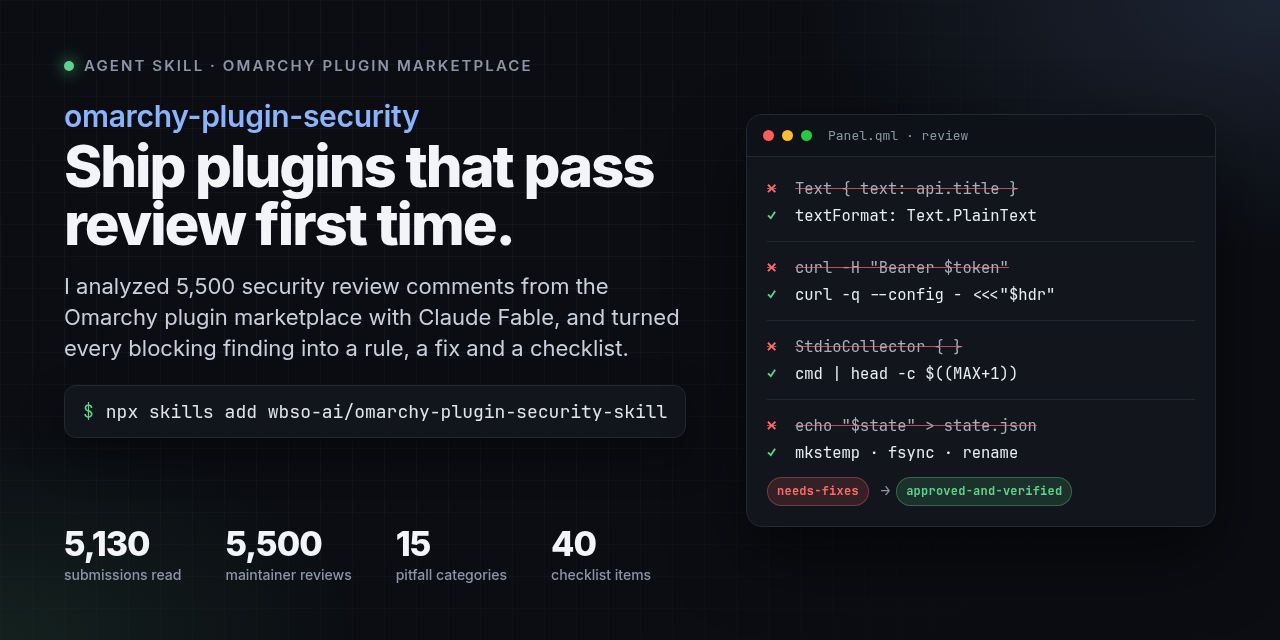
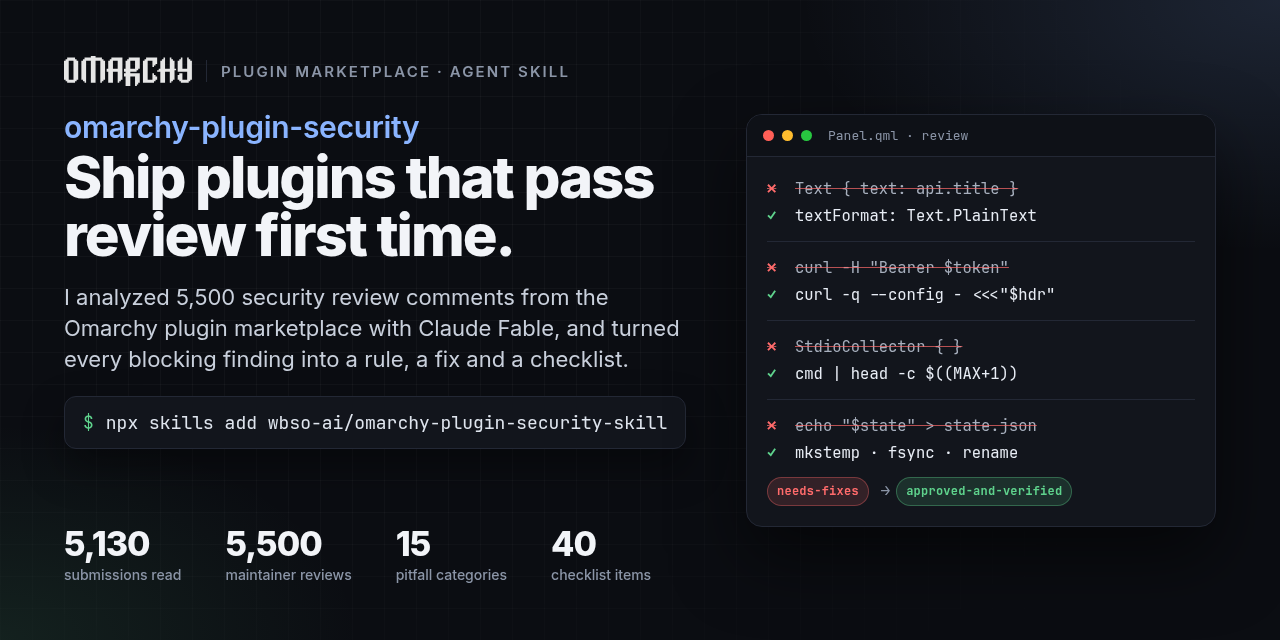
Fix PIPESTATUS misuse in the bash helpers, tighten the Python helper, add the Omarchy wordmark to the social image

Changed region(s): [[0.0312, 0.0625, 0.5312, 0.4062], [0.0312, 0.4375, 0.5312, 0.5938], [0.0625, 0.625, 0.5312, 0.6875]]

diff --git a/assets/social.html b/assets/social.html
@@ -13,7 +13,7 @@
   .grid{position:absolute;inset:0;background-image:linear-gradient(rgba(255,255,255,.03) 1px,transparent 1px),linear-gradient(90deg,rgba(255,255,255,.03) 1px,transparent 1px);background-size:32px 32px;mask-image:radial-gradient(900px 600px at 30% 40%,#000 30%,transparent 100%)}
   .left{position:relative;display:flex;flex-direction:column;justify-content:space-between}
   .eyebrow{display:flex;align-items:center;gap:10px;font-size:15px;font-weight:600;letter-spacing:.14em;color:var(--mute);text-transform:uppercase}
-  .eyebrow .dot{width:10px;height:10px;border-radius:50%;background:var(--green);box-shadow:0 0 16px var(--green)}
+  .eyebrow .logo{height:30px;width:auto;display:block}.eyebrow .sep{width:1px;height:22px;background:var(--line);margin:0 4px}
   h1{margin:26px 0 18px;font-size:58px;line-height:1;font-weight:800;letter-spacing:-.035em}
   h1 small{display:block;font-size:30px;font-weight:600;letter-spacing:-.01em;color:var(--blue);margin-bottom:6px}
   .sub{margin:0;font-size:22px;line-height:1.4;color:#c9d0dc;max-width:620px;font-weight:400}
@@ -44,7 +44,7 @@
   <div class="grid"></div>
   <div class="left">
     <div>
-      <div class="eyebrow"><span class="dot"></span> Agent skill · Omarchy plugin marketplace</div>
+      <div class="eyebrow"><svg class="logo" viewBox="0 0 1215 285" xmlns="http://www.w3.org/2000/svg" aria-label="Omarchy"><g fill="#e6e6e6"><path clip-rule="evenodd" d="m720 120h-15v15h-14.998v14.999l-60.002.001v15.002l90-.002v.002h.002l-.002 89.998h-15v15h-13v15h-17v-89.998h-45v90l-45-.002v-89.998h-14.998v-30h14.998v-15.002h-14.998v-30.001h14.998v-75h15v-14.997h15v-15.002h105.002zm-90-.001h45v-74.997h-45z" fill-rule="evenodd"/><path clip-rule="evenodd" d="m105 30.002h15v14.997h15v180.001h-15v15h-15v15.002h-75v-15.002h-15v-15h-15v-180.001h15v-14.997h15v-15.002h75zm-60 194.998h45v-179.998h-45z" fill-rule="evenodd"/><path d="m300 15h60v15h15v14.999h15v180.001h-15v15h-15v15h-15l-.004-209.998h-44.994v-.002h-.002v210.002h-45v-210h-44.998v179.997h-.002v30.003h-15v-15.002h-15v-15h-14.998v-180.001h14.998v-14.999h15v-15h60v-15h45z"/><path clip-rule="evenodd" d="m555 225h-15v15h-15v15h-15v-105.001l-44.998.001v105.002h-45.002v-105.002h-15v-30.001h15v-75h15.002v-14.997h15v-15.002h105zm-89.998-105.001h44.998v-74.997h-44.998z" fill-rule="evenodd"/><path d="m885 75h-15v15h-15v15h-15v-59.998h-45v179.998h45v-59.998h15v14.997h15v15.001h15v30h-15v15h-15v15.002l-105-.002v-210.001h14.998v-14.997h15.002v-15.002h105z"/><path d="m960 119.999h45v-104.999h15v15h15v14.999h15v75.001h15v15h-15v90h-15v15h-15v15h-15v-105h-45v105.002l-45-.002v-105h-30v-15h15v-15.001h15v-75h15v-14.997h15v-15.002h15z"/><path d="m1125 119.999h45v-104.999h15v15h15v15h15v180h-15v15h-15v15.002l-75-.002v-15h-15v-15h-15v-45.001h15v-14.997-.002h30v60h45v-75h-90v-105.001h15v-14.997h15v-15.002h15z"/></g></svg><span class="sep"></span> plugin marketplace · agent skill</div>
       <h1><small>omarchy-plugin-security</small>Ship plugins that pass review first time.</h1>
       <p class="sub">I analyzed 5,500 security review comments from the Omarchy plugin marketplace with Claude Fable, and turned every blocking finding into a rule, a fix and a checklist.</p>
       <div class="cmd mono"><span class="p">$</span> npx skills add wbso-ai/omarchy-plugin-security-skill</div>

diff --git a/SKILL.md b/SKILL.md
@@ -9,7 +9,7 @@ This is a field guide distilled from the marketplace's own review history: all 5
 
 Read it before you write the plugin, not after the first `needs-fixes`. Every review round costs about a day, and reviewers re-read the whole tree on every push, so new findings appear after the first fix. Harden everything before the first submission.
 
-The goal of this skill is that a plugin passes manual review on the first round.
+The goal of this skill is that a plugin passes review on the first round.
 
 ## The reviewer's threat model in five sentences
 
@@ -202,12 +202,14 @@ The second-largest family. The rule: **the cap lives at the producer, before the
 Fix:
 
 ```bash
-# producer-side cap with the real exit status preserved
+# producer-side cap; with pipefail the substitution fails if cmd fails,
+# and a truncated result is detected by length (head read MAX + 1 bytes)
 set -o pipefail
-out=$(/usr/bin/timeout -k 2 20 cmd args | /usr/bin/head -c $((MAX + 1)))
-status=${PIPESTATUS[0]}
+out=$(/usr/bin/timeout -k 2 20 cmd args | /usr/bin/head -c $((MAX + 1))) || exit 1
 [ ${#out} -le $MAX ] || { echo 'output exceeds limit' >&2; exit 1; }
 ```
+
+`PIPESTATUS` does not survive a `$(...)` substitution (the pipeline ran in a subshell), so do not try to read it afterwards; rely on `pipefail` plus the length check, or run the pipeline without a substitution and write to a held descriptor.
 
 In QML replace `StdioCollector` with `SplitParser { splitMarker: "" }` and count bytes per chunk, then `signal(15)` and later `signal(9)` on overflow, or better, call a helper that already bounds everything and returns a small, strictly shaped JSON document. "No StdioCollector remains anywhere in the tree" is the cleanest accepted state. Bound stderr too and render it as PlainText with a small cap. In Python read both streams incrementally with `select` against a monotonic deadline and kill the process group on overflow.
 
@@ -474,7 +476,7 @@ Invoke as an argv array from QML (`["python3", "-I", "-S", helperPath, "read", n
 
 ```python
 #!/usr/bin/python3 -I
-import os, stat, sys, json, secrets
+import os, re, stat, sys, json, secrets
 
 MAX_BYTES = 65536
 
@@ -549,7 +551,7 @@ def write_atomic(dirfd, name, data: bytes):
 
 if __name__ == "__main__":
     op, name = sys.argv[1], sys.argv[2]
-    if not name.isalnum() and not all(c.isalnum() or c in "._-" for c in name) or name in (".", "..") or "/" in name:
+    if not re.fullmatch(r"[A-Za-z0-9][A-Za-z0-9._-]{0,63}", name) or name in (".", ".."):
         sys.exit(2)
     dirfd = open_dir_chain([".local", "state", "my-plugin"])
     try:
@@ -571,16 +573,19 @@ if __name__ == "__main__":
 ### Bounded, supervised command (bash)
 
 ```bash
-#!/usr/bin/env bash
-set -euo pipefail
+#!/usr/bin/bash
+set -uo pipefail
 MAX=${MAX:-262144}
-# Own process group, absolute deadline, producer-side cap, real status preserved.
-out=$(/usr/bin/setsid -w /usr/bin/timeout -k 2 20 "$@" 2>/dev/null | /usr/bin/head -c $((MAX + 1))) || rc=$?
-rc=${PIPESTATUS[0]:-${rc:-0}}
+# Own session, absolute deadline with KILL escalation, producer-side cap of MAX + 1,
+# stderr bounded separately instead of discarded.
+out=$(/usr/bin/setsid -w /usr/bin/timeout -k 2 20 "$@" 2> >(/usr/bin/head -c 4096 >&2) | /usr/bin/head -c $((MAX + 1)))
+rc=$?
 if [ ${#out} -gt "$MAX" ]; then echo "output exceeded ${MAX} bytes" >&2; exit 1; fi
 [ "$rc" -eq 0 ] || exit "$rc"
 printf '%s' "$out"
 ```
+
+With `pipefail`, `rc` is the first non-zero status in the pipeline, so a failing producer is not masked by a happy `head`; a producer killed by `SIGPIPE` after emitting more than `MAX` bytes is caught by the length check first.
 
 ### Bounded, pinned fetch (bash)
 
@@ -593,6 +598,7 @@ fetch_json() {
         --max-time 10 --connect-timeout 5 --max-filesize "$max" --noproxy '*' -- "$url" \
     | head -c $((max + 1))
 }
+# call under set -o pipefail, and treat a result longer than $max as failure
 ```
 
 No `-L`, so a redirect is a failure rather than a token leak. Add `--resolve host:443:IP` after validating the address when the host is configurable.
@@ -607,6 +613,7 @@ Process {
     splitMarker: ""
     onRead: function(chunk) {
       root.buf += chunk
+      // .length counts UTF-16 units, so this is defense in depth; the byte cap is in the helper
       if (root.buf.length > root.maxBytes) { proc.signal(15); killTimer.start(); root.buf = "" }
     }
   }
